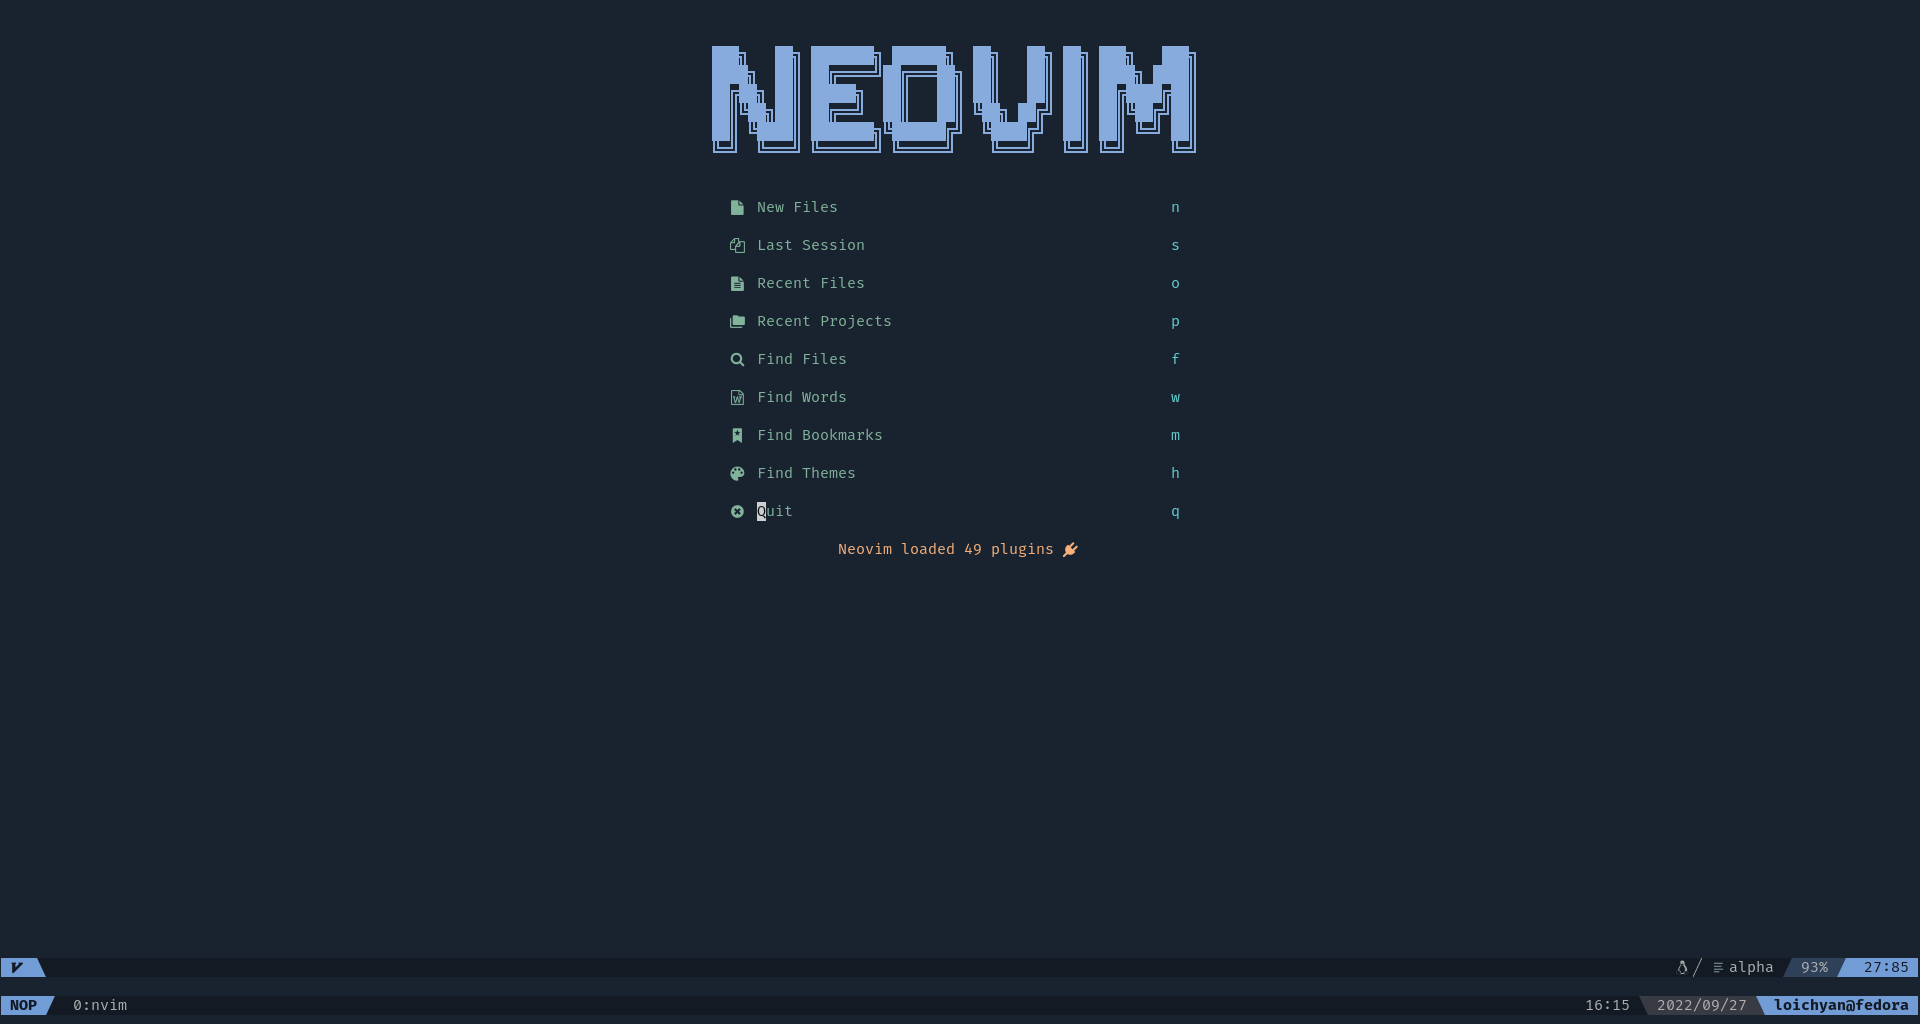
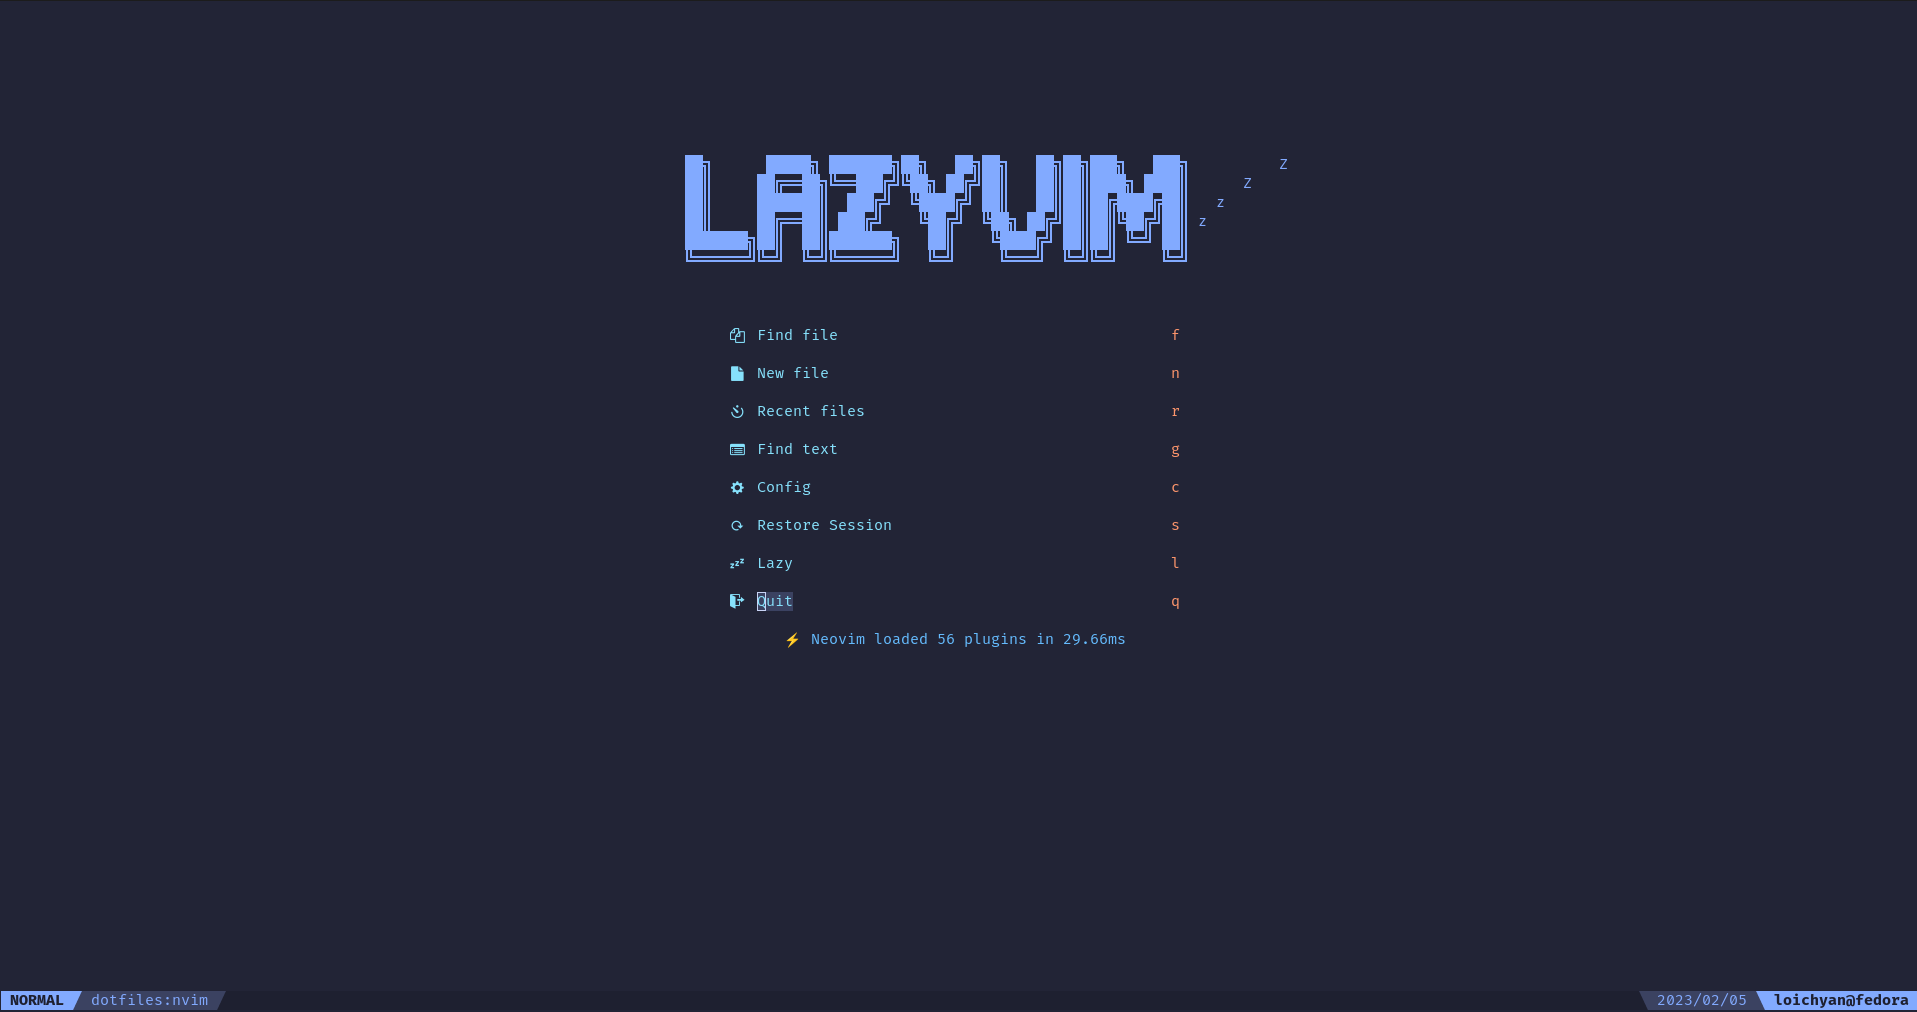
docs(readme): update screenshots

diff --git a/README.md b/README.md
@@ -19,7 +19,7 @@ My dotfiles.
 - Manage packages using
   [Home Manager](https://github.com/nix-community/home-manager)
 - Customize zsh using [Zimfw](https://zimfw.sh/)
-- Customize NeoVim using [MiNV](https://github.com/loichyan/minv)
+- Customize NeoVim using [LazyVim](https://www.lazyvim.org/)
 
 ## 🚀 Installation
 
